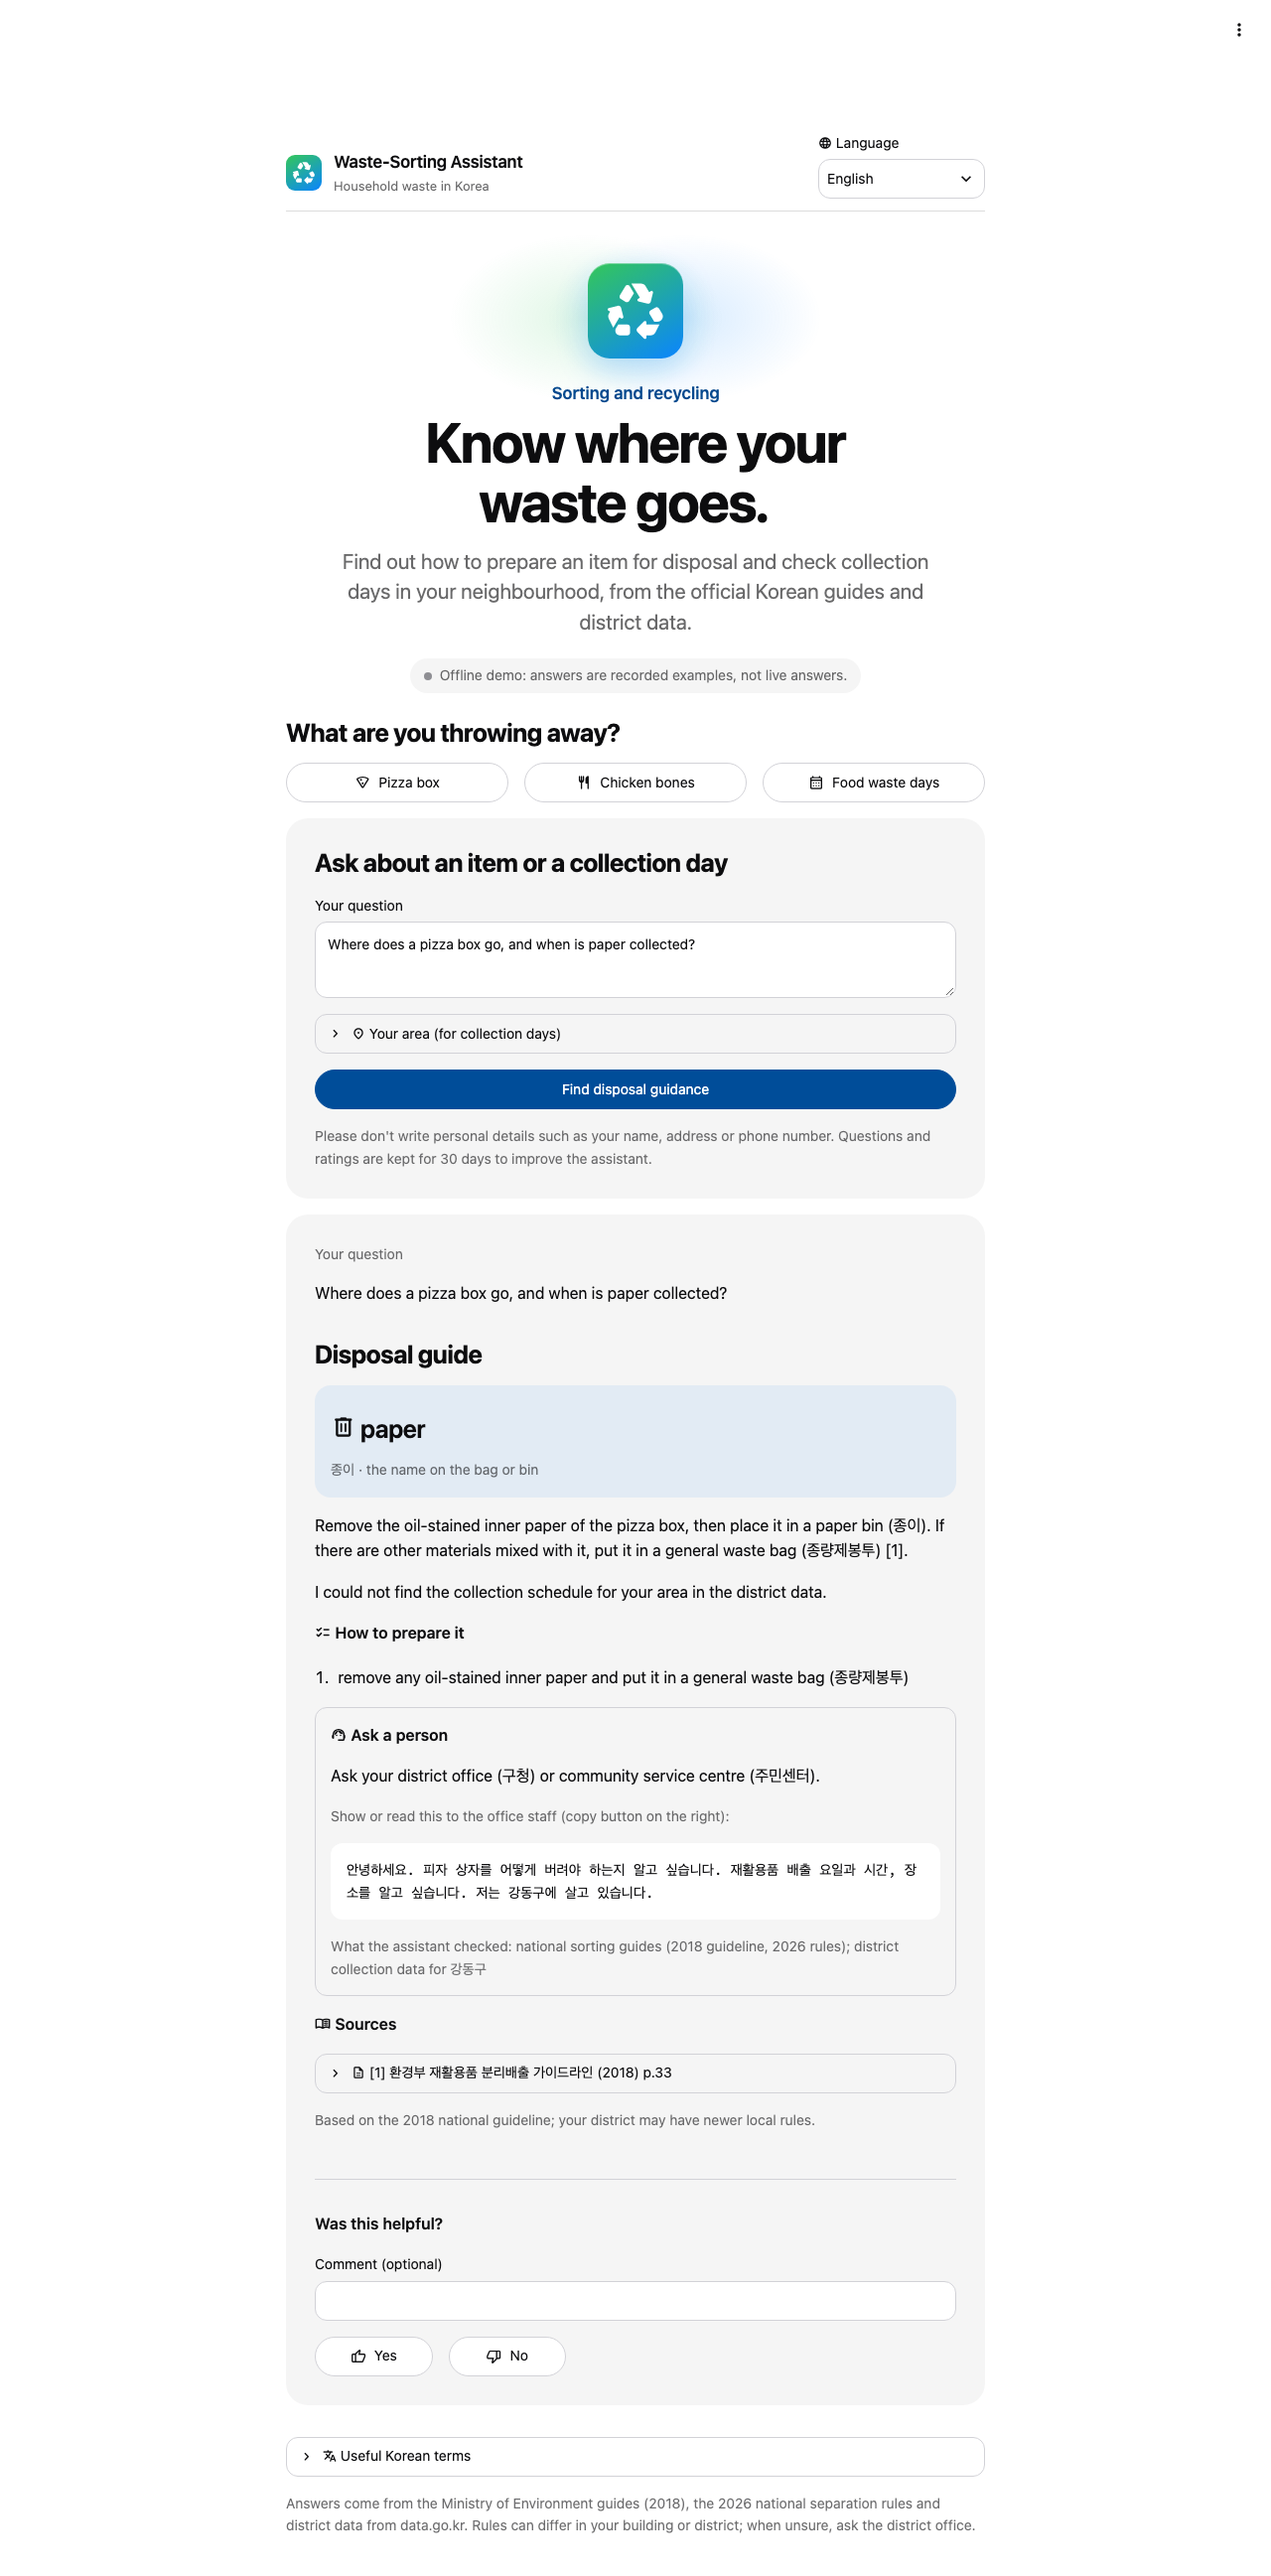
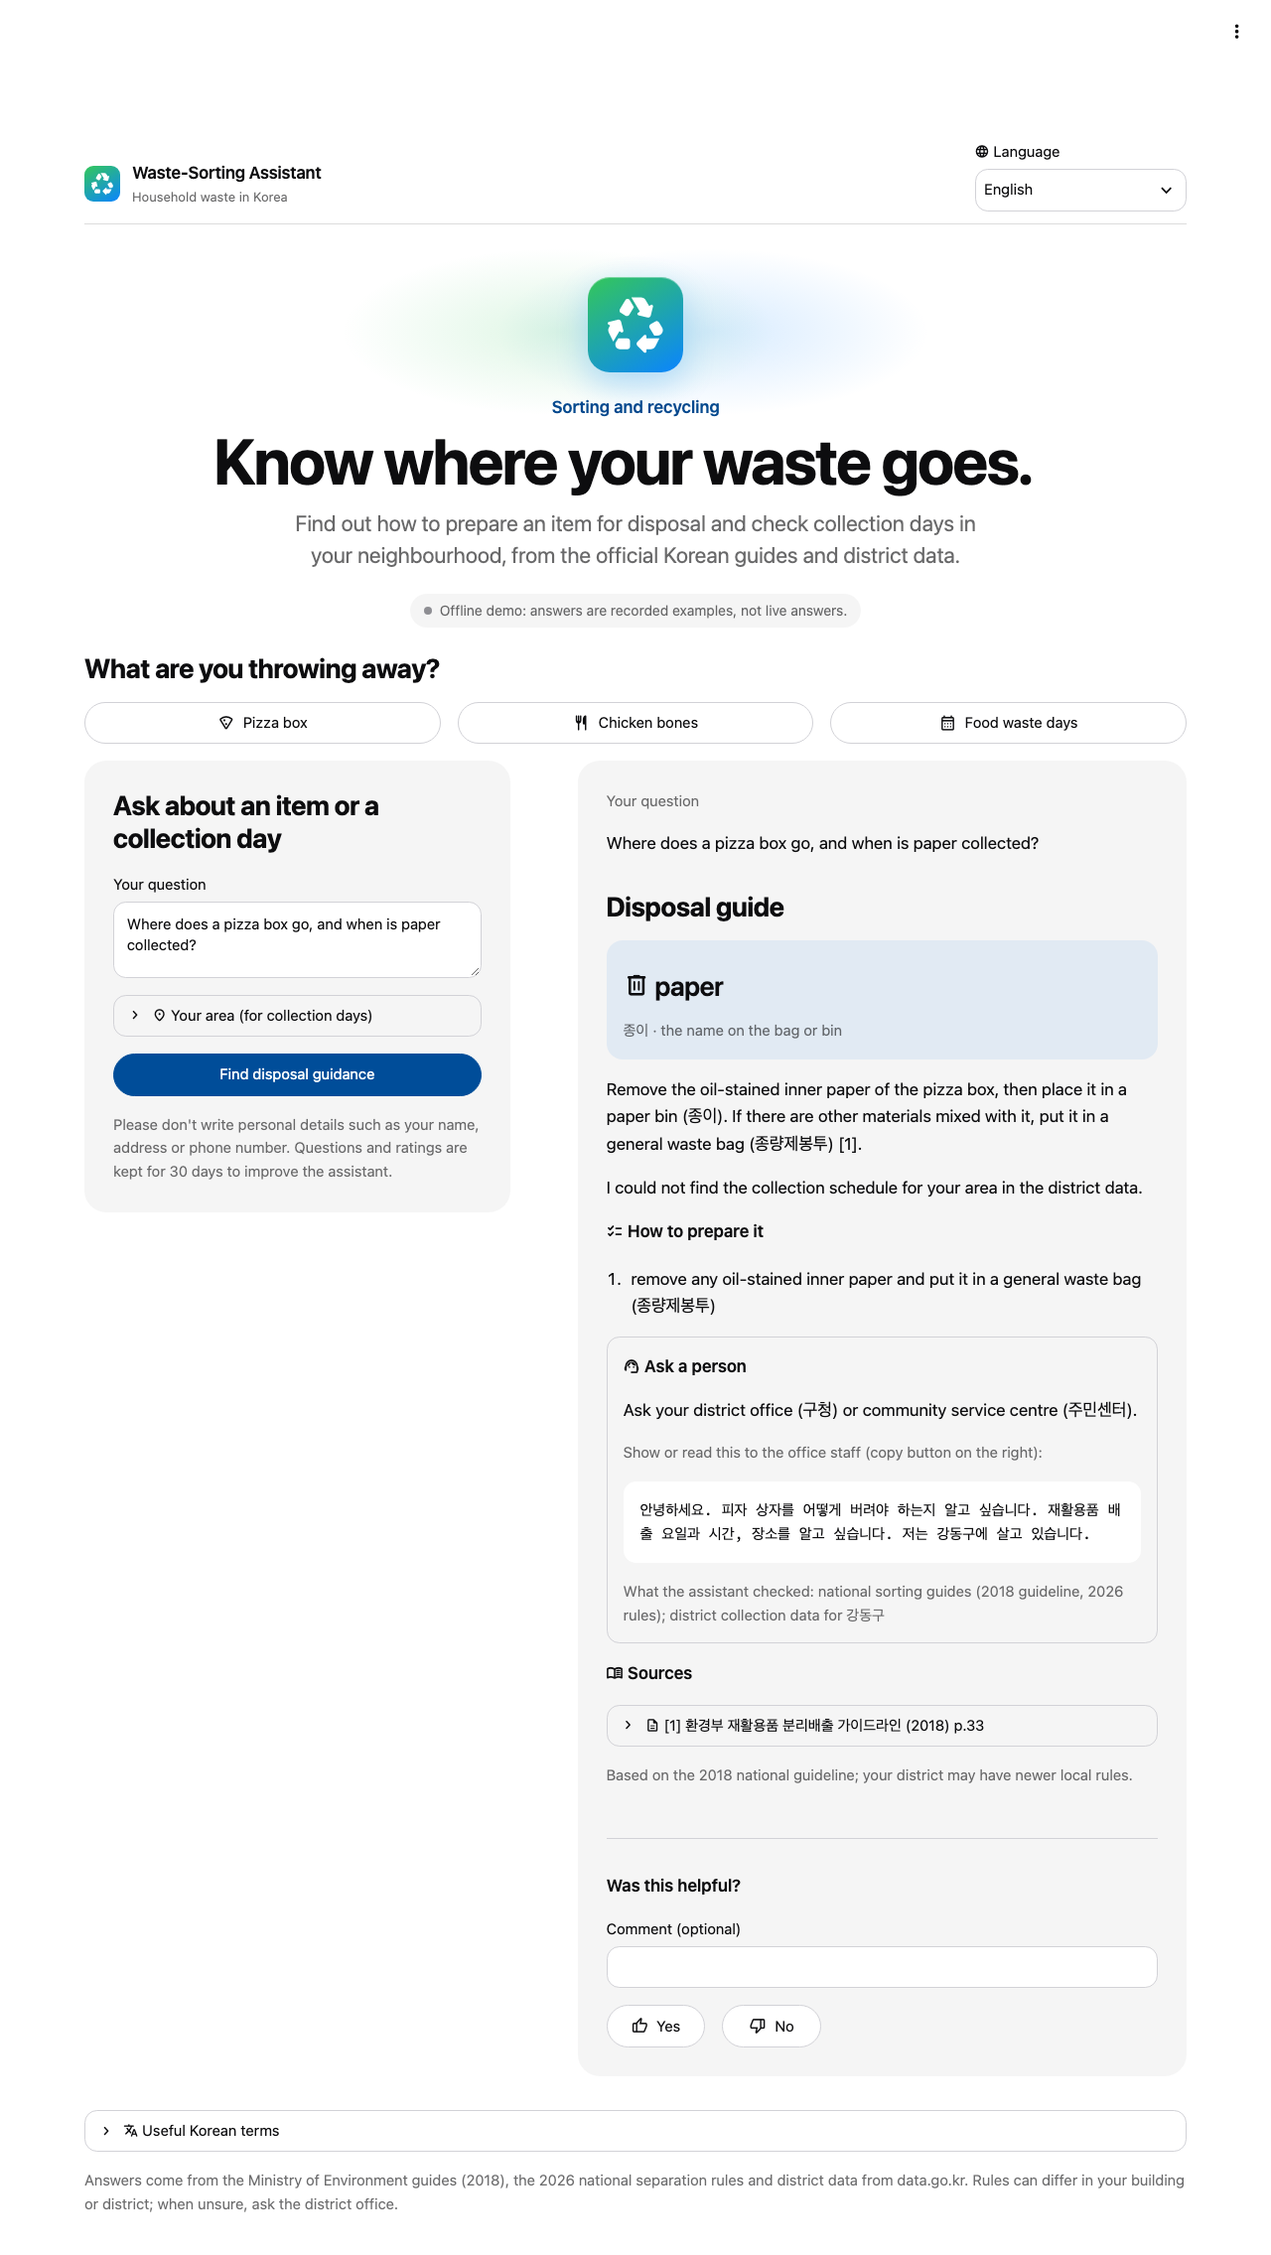
Website wider: question and answer side by side, 17 px text, a place for the answer

diff --git a/app/ui/style.css b/app/ui/style.css
@@ -22,6 +22,13 @@
     --icon-from: #34c759;                 /* the app icon: Apple green to Apple blue */
     --icon-to: #0a84ff;
     --tile-radius: 22px;
+    --page-width: 1180px;                 /* the page's one column, centred */
+}
+
+.st-key-page {
+    width: 100%;
+    max-width: var(--page-width);
+    margin-inline: auto;
 }
 
 /* ---------- top bar ---------- */
@@ -110,11 +117,11 @@
 }
 
 .hero .hero-title {
-    font-size: clamp(34px, 6.5vw, 56px);
+    font-size: clamp(36px, 5.6vw, 64px);
     font-weight: 700;
     line-height: 1.07;
     letter-spacing: -0.025em;
-    max-width: 640px;
+    max-width: 880px;
     margin: 0 auto 14px;
     padding: 0;
     text-wrap: balance;                   /* no single word on the last line */
@@ -122,9 +129,9 @@
 
 .hero .hero-description {
     color: color-mix(in srgb, currentColor var(--muted), transparent);
-    font-size: clamp(17px, 2.3vw, 21px);
+    font-size: clamp(18px, 1.9vw, 22px);
     line-height: 1.45;
-    max-width: 600px;
+    max-width: 700px;
     margin: 0 auto;
     text-wrap: pretty;
 }
@@ -177,6 +184,17 @@
     padding: 28px;
 }
 
+.st-key-answer_placeholder {            /* the answer side before the first question */
+    background: var(--tile);
+    border-color: transparent;
+    border-radius: var(--tile-radius);
+    min-height: 340px;
+    justify-content: center;
+    align-items: center;
+    padding: 32px;
+    text-align: center;
+}
+
 .st-key-bin_card {
     background: var(--bin-tint);
     border-color: transparent;
@@ -188,7 +206,11 @@
     letter-spacing: -0.02em;
 }
 
-@media (max-width: 600px) {
+@media (max-width: 640px) {                /* a phone: Streamlit stacks the columns */
+    .st-key-answer_placeholder {
+        display: none;
+    }
+
     .hero {
         padding-top: 20px;
     }

diff --git a/rag/texts.py b/rag/texts.py
@@ -263,6 +263,8 @@ PAGE: dict[str, dict[str, str]] = {
         "ex2_icon": ":material/restaurant:", "ex2_label": "Chicken bones", "ex2_q": "닭뼈는 음식물쓰레기인가요?",
         "ex3_icon": ":material/calendar_month:", "ex3_label": "Food waste days", "ex3_q": "When can I put out food waste?",
         "ask_heading": "Ask about an item or a collection day",
+        "placeholder_title": "Your answer will appear here",
+        "placeholder_text": "Ask about an item, or pick an example. Choose your area to see its collection days.",
         "question_label": "Your question",
         "question_placeholder": "For example: How should I dispose of a plastic bottle?",
         "area_heading": "Your area (for collection days)",
@@ -336,6 +338,8 @@ PAGE: dict[str, dict[str, str]] = {
         "ex2_icon": ":material/restaurant:", "ex2_label": "닭뼈", "ex2_q": "닭뼈는 음식물쓰레기인가요?",
         "ex3_icon": ":material/calendar_month:", "ex3_label": "음식물 배출 요일", "ex3_q": "음식물쓰레기는 언제 버릴 수 있나요?",
         "ask_heading": "품목이나 배출 요일을 물어보세요",
+        "placeholder_title": "답변이 여기에 표시됩니다",
+        "placeholder_text": "버릴 물건을 물어보거나 예시를 골라 보세요. 지역을 고르면 배출 요일도 볼 수 있습니다.",
         "question_label": "질문",
         "question_placeholder": "예: 플라스틱 병은 어떻게 버리나요?",
         "area_heading": "거주 지역 (배출 요일 안내용)",
@@ -409,6 +413,8 @@ PAGE: dict[str, dict[str, str]] = {
         "ex2_icon": ":material/restaurant:", "ex2_label": "鸡骨头", "ex2_q": "鸡骨头是厨余垃圾吗？",
         "ex3_icon": ":material/calendar_month:", "ex3_label": "厨余垃圾收集日", "ex3_q": "什么时候可以扔厨余垃圾？",
         "ask_heading": "询问物品或收集日期",
+        "placeholder_title": "答案将显示在这里",
+        "placeholder_text": "询问一件物品，或选择一个示例。选择您的地区即可查看收集日。",
         "question_label": "您的问题",
         "question_placeholder": "例如：塑料瓶应该怎么扔？",
         "area_heading": "您所在的地区（用于收集日期）",
@@ -482,6 +488,8 @@ PAGE: dict[str, dict[str, str]] = {
         "ex2_icon": ":material/restaurant:", "ex2_label": "Xương gà", "ex2_q": "Xương gà có phải là rác thực phẩm không?",
         "ex3_icon": ":material/calendar_month:", "ex3_label": "Ngày đổ rác", "ex3_q": "Khi nào tôi có thể đổ rác thực phẩm?",
         "ask_heading": "Hỏi về một món đồ hoặc ngày thu gom",
+        "placeholder_title": "Câu trả lời sẽ hiện ở đây",
+        "placeholder_text": "Hãy hỏi về một món đồ hoặc chọn một ví dụ. Chọn khu vực để xem ngày thu gom.",
         "question_label": "Câu hỏi của bạn",
         "question_placeholder": "Ví dụ: Chai nhựa nên bỏ như thế nào?",
         "area_heading": "Khu vực của bạn (để xem ngày thu gom)",
@@ -555,6 +563,8 @@ PAGE: dict[str, dict[str, str]] = {
         "ex2_icon": ":material/restaurant:", "ex2_label": "Tovuq suyaklari", "ex2_q": "Tovuq suyaklari oziq-ovqat chiqindisimi?",
         "ex3_icon": ":material/calendar_month:", "ex3_label": "Chiqarish kunlari", "ex3_q": "Oziq-ovqat chiqindisini qachon chiqarsam bo'ladi?",
         "ask_heading": "Buyum yoki yig'ish kuni haqida so'rang",
+        "placeholder_title": "Javob shu yerda chiqadi",
+        "placeholder_text": "Biror buyum haqida so'rang yoki misolni tanlang. Yig'ish kunlarini ko'rish uchun hududingizni tanlang.",
         "question_label": "Savolingiz",
         "question_placeholder": "Masalan: Plastik shishani qanday tashlash kerak?",
         "area_heading": "Hududingiz (yig'ish kunlari uchun)",
@@ -628,6 +638,8 @@ PAGE: dict[str, dict[str, str]] = {
         "ex2_icon": ":material/restaurant:", "ex2_label": "Куриные кости", "ex2_q": "Куриные кости — это пищевые отходы?",
         "ex3_icon": ":material/calendar_month:", "ex3_label": "Дни вывоза еды", "ex3_q": "Когда можно выносить пищевые отходы?",
         "ask_heading": "Спросите о вещи или дне вывоза",
+        "placeholder_title": "Ответ появится здесь",
+        "placeholder_text": "Спросите о вещи или выберите пример. Укажите свой район, чтобы увидеть дни вывоза.",
         "question_label": "Ваш вопрос",
         "question_placeholder": "Например: как выбросить пластиковую бутылку?",
         "area_heading": "Ваш район (для дней вывоза)",

diff --git a/app/streamlit_app.py b/app/streamlit_app.py
@@ -70,7 +70,7 @@ def t(key: str, **args) -> str:
     return page_text(key, lang, **args)
 
 
-st.set_page_config(page_title=t("page_title"), page_icon=ui.favicon_svg(), layout="centered")
+st.set_page_config(page_title=t("page_title"), page_icon=ui.favicon_svg(), layout="wide")
 st.markdown(f"<style>{STYLE.read_text(encoding='utf-8')}</style>", unsafe_allow_html=True)
 st.html(f"<script>document.documentElement.lang = {json.dumps(lang)};</script>",
         unsafe_allow_javascript=True)                 # screen readers pick the right voice
@@ -126,35 +126,40 @@ def pick_option(kind: str, option: str) -> None:
     queue({"question": request["question"], "lang": request["lang"], **area})
 
 
-# ---------- HEADER ----------
-with st.container(key="topbar"):
-    brand, chooser = st.columns([3, 1], vertical_alignment="center")
-    with brand:
-        ui.show_header(t)
-    with chooser:
-        st.selectbox(f":material/language: {t('language')}", list(languages), key="lang",
-                 on_change=on_lang,
-                     format_func=lambda code: languages[code], disabled=busy)
+# ---------- PAGE ----------
+# A wide page with one centred column (at most --page-width in style.css): on a computer the
+# question and the answer sit side by side, so the answer appears without scrolling; on a
+# phone the columns stack.
+page = st.container(key="page")
+with page:
+    with st.container(key="topbar"):
+        brand, chooser = st.columns([4, 1], vertical_alignment="center")
+        with brand:
+            ui.show_header(t)
+        with chooser:
+            st.selectbox(f":material/language: {t('language')}", list(languages), key="lang",
+                         on_change=on_lang, format_func=lambda code: languages[code],
+                         disabled=busy)
 
-health = service.health()
-if health["ollama"] and not health["offline"]:
-    start_warm_up()
-ui.show_hero(t, "offline" if health["offline"] else "live" if health["ollama"] else "down")
+    health = service.health()
+    if health["ollama"] and not health["offline"]:
+        start_warm_up()
+    ui.show_hero(t, "offline" if health["offline"] else "live" if health["ollama"] else "down")
 
+    with st.container(key="examples"):
+        st.header(t("examples_heading"))
+        for column, n in zip(st.columns(3), (1, 2, 3), strict=True):
+            column.button(t(f"ex{n}_label"), icon=t(f"ex{n}_icon"), key=f"example_{n}",
+                          width="stretch", disabled=busy, on_click=choose_question,
+                          args=(t(f"ex{n}_q"),))
 
-# ---------- EXAMPLE QUESTIONS ----------
-with st.container(key="examples"):
-    st.header(t("examples_heading"))
-    for column, n in zip(st.columns(3), (1, 2, 3), strict=True):
-        column.button(t(f"ex{n}_label"), icon=t(f"ex{n}_icon"), key=f"example_{n}",
-                      width="stretch", disabled=busy, on_click=choose_question,
-                      args=(t(f"ex{n}_q"),))
+    ask_column, answer_column = st.columns([5, 7], gap="large")
 
 
 # ---------- QUESTION ----------
 # No st.form: a form does not rerun when a selectbox changes, so the district list would
 # stay on the old province (a mismatched pair finds no data).
-with st.container(key="question_panel", border=True):
+with ask_column, st.container(key="question_panel", border=True):
     st.header(t("ask_heading"))
     st.text_area(t("question_label"), placeholder=t("question_placeholder"), height=105,
                  key="question_input", max_chars=service.MAX_QUESTION_CHARS, disabled=busy)
@@ -212,16 +217,19 @@ def answer_pending() -> None:
     st.rerun()
 
 
-if busy:
-    answer_pending()
-
-if st.session_state.result:
-    ui.show_result(st.session_state.result, st.session_state.request or {}, t, pick_option)
+with answer_column:
+    if busy:
+        answer_pending()
+    if st.session_state.result:
+        ui.show_result(st.session_state.result, st.session_state.request or {}, t, pick_option)
+    else:
+        ui.show_placeholder(t)
 
 
 # ---------- BOTTOM ----------
-st.write("")
-ui.show_glossary(lang, t, languages)
-st.caption(t("footer"))
-if ADMIN:
-    ui.show_maintainer(health, service.data_reviews(), service.pipeline_settings())
+with page:
+    st.write("")
+    ui.show_glossary(lang, t, languages)
+    st.caption(t("footer"))
+    if ADMIN:
+        ui.show_maintainer(health, service.data_reviews(), service.pipeline_settings())

diff --git a/app/ui/components.py b/app/ui/components.py
@@ -243,6 +243,14 @@ def show_feedback(result: dict, t: T, disabled: bool = False) -> None:
                       disabled=disabled, on_click=save_rating, args=(trace_id, rating))
 
 
+def show_placeholder(t: T) -> None:
+    """Where the answer will appear, before the first question (hidden on a phone, where the
+    answer comes below the question anyway)."""
+    with st.container(key="answer_placeholder", border=True):
+        st.markdown(f"### :material/forum: {t('placeholder_title')}")
+        st.caption(t("placeholder_text"))
+
+
 def show_result(result: dict, request: dict, t: T, on_pick: Callable[[str, str], None],
                 disabled: bool = False) -> None:
     """One answer, by status (docs/WEBSITE.md "What to show, by status")."""

diff --git a/tests/test_app_style.py b/tests/test_app_style.py
@@ -92,8 +92,8 @@ def test_css_uses_no_streamlit_internals():
     assert "!important" not in css
     assert "data-testid" not in css and "baseweb" not in css
     assert "color-scheme" not in css          # colours follow the theme, not the system
-    keys = {"st-key-topbar", "st-key-examples", "st-key-question_panel", "st-key-answer_panel",
-            "st-key-bin_card"}
+    keys = {"st-key-page", "st-key-topbar", "st-key-examples", "st-key-question_panel",
+            "st-key-answer_panel", "st-key-answer_placeholder", "st-key-bin_card"}
     assert set(re.findall(r"\.(st-[\w-]+)", css)) <= keys
 
 

diff --git a/docs/WEBSITE.md b/docs/WEBSITE.md
@@ -91,10 +91,10 @@ for exists.
 
 | File | What it holds |
 |---|---|
-| `app/streamlit_app.py` | The layout, the callbacks and the answer flow |
+| `app/streamlit_app.py` | The layout (a wide page, question and answer side by side on a computer, stacked on a phone), the callbacks and the answer flow |
 | `app/ui/components.py` | One render function per part of an answer (bin, steps, zones, sources, handoff, clarify, feedback, glossary, maintainer panel) |
 | `app/ui/state.py` | Rules testable without a browser: session defaults, the starting language, the area check, the rate limit |
-| `app/ui/style.css` | The app icon, the hero, the grey tiles and the bin card; everything else is the theme |
+| `app/ui/style.css` | The page width (1180 px at most), the app icon, the hero, the grey tiles and the bin card; everything else is the theme |
 | `.streamlit/config.toml` | The theme in Apple's style (system font, Apple blue, pill buttons) in light and dark, no usage statistics, no developer menu, no tracebacks for visitors |
 
 ### What it does
